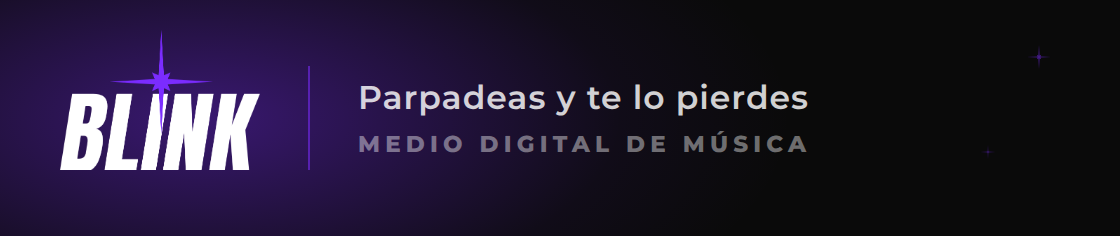
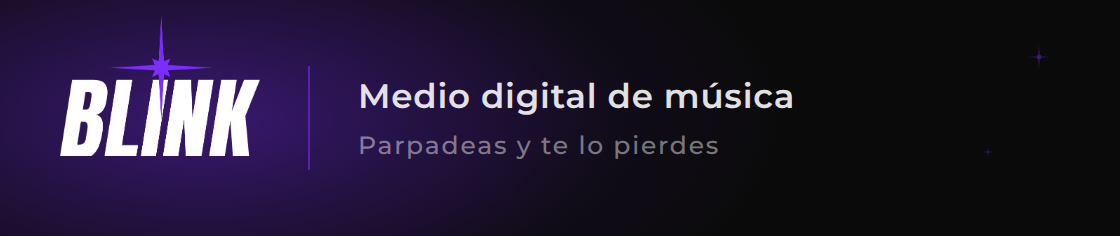
Blink es un medio de música, no solo de música urbana
Mia lo marcó dos veces: definirlo como "medio de música urbana" lo encierra,
porque ya cubre festivales y artistas que no son del género. Se corrige la
definición que abre este archivo, que es la que orienta todo lo que escribo.

En la firma, además: la bajada principal pasa a ser "Medio digital de música"
y el lema queda abajo en chico, porque lo primero que tiene que entenderse es
qué es Blink. Y el logo sube hasta que la palabra BLINK queda centrada —a 1px
del centro—, que es lo que se mira, no la caja de la imagen.

Claude-Session: https://claude.ai/code/session_01NF4PN4Z1tGA2GQg6PseM5W

Changed region(s): [[0.0312, 0.2373, 0.25, 0.7415], [0.3125, 0.3263, 0.7188, 0.5042], [0.3125, 0.5636, 0.7188, 0.6822]]

diff --git a/firma-correo.html b/firma-correo.html
@@ -16,17 +16,17 @@
     position:relative; overflow:hidden;
     font-family:'Montserrat',sans-serif;
   }
-  .logo{width:100px; height:auto; display:block; flex:none; position:relative; transform:translateY(-9px);}
+  .logo{width:100px; height:auto; display:block; flex:none; position:relative; transform:translateY(-16px);}
   .raya{width:1px; height:52px; background:rgba(123,44,255,0.55); flex:none;}
   .lema{
     position:relative;
-    font-size:16.5px; font-weight:600; letter-spacing:0.5px; white-space:nowrap;
-    color:rgba(255,255,255,0.82); line-height:1.3;
+    font-size:17px; font-weight:600; letter-spacing:0.4px; white-space:nowrap;
+    color:rgba(255,255,255,0.90); line-height:1.3;
   }
   .lema span{
-    display:block; margin-top:5px;
-    font-size:11.5px; font-weight:800; letter-spacing:2.6px;
-    text-transform:uppercase; color:rgba(255,255,255,0.42);
+    display:block; margin-top:6px;
+    font-size:12.5px; font-weight:500; letter-spacing:0.9px;
+    color:rgba(255,255,255,0.46);
   }
   .destello{position:absolute; fill:#7B2CFF;}
 </style>
@@ -39,8 +39,8 @@
[1 lines of base64/hex data omitted]
   <div class="raya"></div>
   <div class="lema">
-    Parpadeas y te lo pierdes
-    <span>Medio digital de música</span>
+    Medio digital de música
+    <span>Parpadeas y te lo pierdes</span>
   </div>
 </div>
 </body>

diff --git a/CLAUDE.md b/CLAUDE.md
@@ -1,6 +1,9 @@
 # Blink Media
 
-Medio digital chileno de música urbana. Mia es la editora y la cara de los reels.
+Medio digital chileno **de música**, a secas. El urbano es el centro de lo que
+cubre, pero no es el límite: también entran festivales, pop, lo que esté pasando.
+Mia marcó que definirlo como "medio de música urbana" lo encierra. Mia es la
+editora y la cara de los reels.
 Yo soy su agente de monitoreo y contenido. Todo se escribe en español de Chile.
 
 **Antes de escribir cualquier guion, copy o gráfica, lee este archivo completo.**
